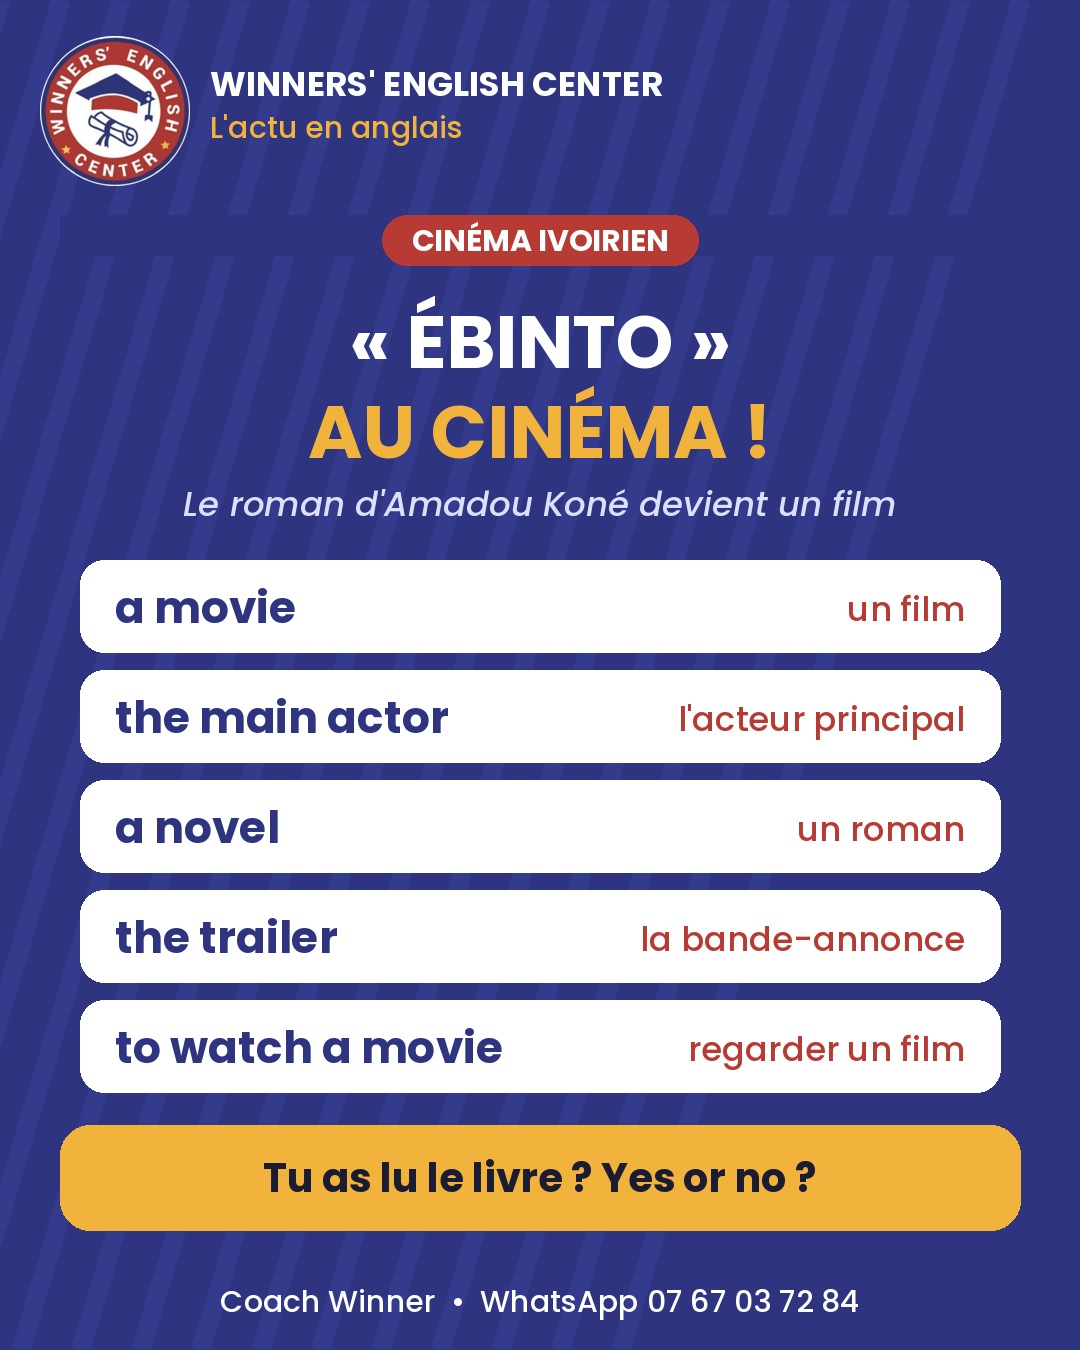
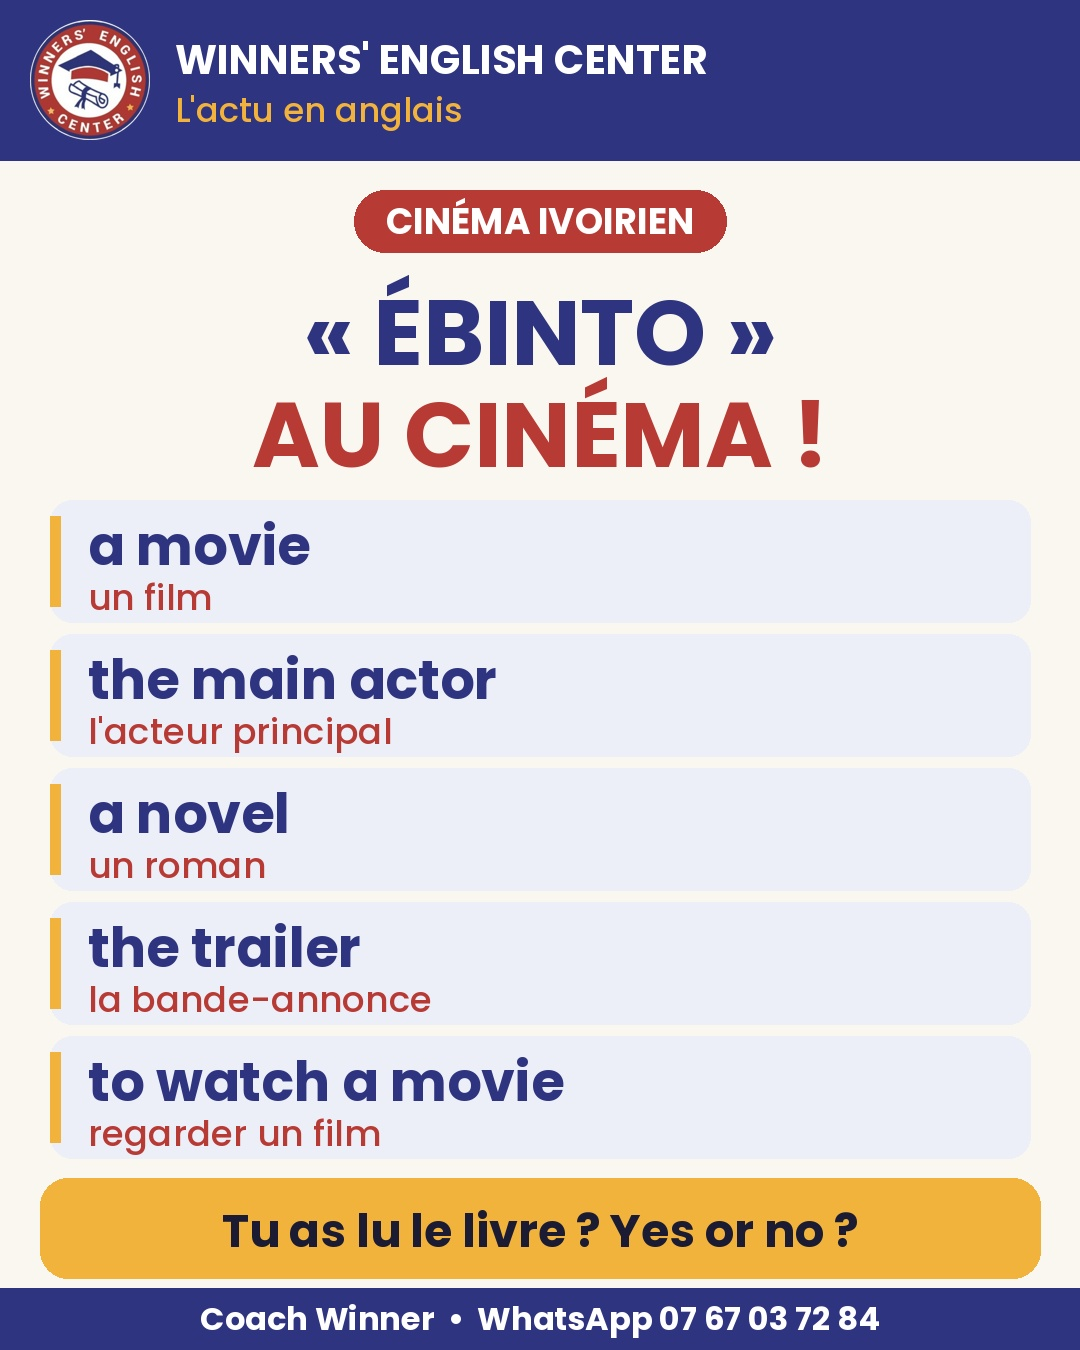
Visuels actu v2 plus lisibles
Claude-Session: https://claude.ai/code/session_01RFv1fahLU5XSvBC829hEWp

diff --git a/actu/actu2.py b/actu/actu2.py
@@ -1,0 +1,53 @@
+from PIL import Image, ImageDraw, ImageFont
+W,H=1080,1350
+NAVY=(47,52,128); RED=(184,58,53); GOLD=(242,179,61); WHITE=(255,255,255); INK=(27,28,51); BG=(250,247,240); CARD=(236,238,248)
+P='/usr/share/fonts/truetype/google-fonts/Poppins-'
+F=lambda w,s: ImageFont.truetype(P+w+'.ttf',s)
+logo=Image.open('/home/claude/Winners_videos/outils/logo_rond.png').convert('RGBA').resize((120,120))
+def fit(d,t,w,s,maxw):
+    while d.textlength(t,font=F(w,s))>maxw: s-=2
+    return F(w,s)
+def c(d,y,t,f,col):
+    w=d.textlength(t,font=f); d.text(((W-w)/2,y),t,font=f,fill=col)
+def make(name,tag,title1,title2,rows,question):
+    im=Image.new('RGB',(W,H),BG); d=ImageDraw.Draw(im)
+    d.rectangle((0,0,W,160),fill=NAVY)
+    im.paste(logo,(30,20),logo)
+    d.text((175,32),"WINNERS' ENGLISH CENTER",font=F('Bold',40),fill=WHITE)
+    d.text((175,86),"L'actu en anglais",font=F('Medium',34),fill=GOLD)
+    f=F('Bold',36); tw=d.textlength(tag,font=f)
+    d.rounded_rectangle((W/2-tw/2-32,190,W/2+tw/2+32,252),radius=31,fill=RED); c(d,196,tag,f,WHITE)
+    c(d,268,title1,fit(d,title1,'Bold',92,980),NAVY); c(d,370,title2,fit(d,title2,'Bold',92,980),RED)
+    y=500
+    for en,fr in rows:
+        d.rounded_rectangle((50,y,1030,y+122),radius=22,fill=CARD)
+        d.rectangle((50,y+16,60,y+106),fill=GOLD)
+        d.text((88,y+8),en,font=fit(d,en,'Bold',54,910),fill=NAVY)
+        d.text((88,y+72),fr,font=fit(d,fr,'Medium',36,910),fill=RED)
+        y+=134
+    d.rounded_rectangle((40,y+8,1040,y+108),radius=28,fill=GOLD)
+    c(d,y+28,question,fit(d,question,'Bold',46,940),INK)
+    d.rectangle((0,H-62,W,H),fill=NAVY)
+    c(d,H-54,"Coach Winner  •  WhatsApp 07 67 03 72 84",F('Bold',32),WHITE)
+    im.save(name,quality=95)
+make('yan.jpg','⚽ FOOTBALL'.replace('⚽ ',''),"YAN DIOMANDÉ","BRILLE AU REAL !",
+ [("to score a goal","marquer un but"),("an assist","une passe décisive"),("the striker","l'attaquant"),("man of the match","l'homme du match"),("a winger","un ailier")],
+ "Comment dit-on « but » en anglais ?")
+make('u17.jpg','CAN U17 2027',"LES ÉLÉPHANTEAUX","QUALIFIÉS !",
+ [("to qualify","se qualifier"),("the final","la finale"),("to beat Ghana","battre le Ghana"),("the team","l'équipe"),("Well done, boys!","Bravo les gars !")],
+ "Écris « Well done! » en commentaire")
+make('miss.jpg','MISS GRAND INTERNATIONAL',"PRÉSENTE-TOI","COMME UNE MISS",
+ [("My name is…","Je m'appelle…"),("I'm from Côte d'Ivoire","Je viens de Côte d'Ivoire"),("I'm proud to…","Je suis fière de…"),("the runner-up","la dauphine"),("Thank you!","Merci !")],
+ "Présente-toi en anglais !")
+make('layo.jpg','MUSIQUE',"ROSELINE LAYO","NOUVEL ALBUM !",
+ [("an album","un album"),("the release","la sortie"),("a hit","un tube"),("featuring (feat.)","en collaboration avec"),("a fan","un(e) fan")],
+ "Ta chanson préférée de Roseline Layo ?")
+make('ebinto.jpg','CINÉMA IVOIRIEN',"« ÉBINTO »","AU CINÉMA !",
+ [("a movie","un film"),("the main actor","l'acteur principal"),("a novel","un roman"),("the trailer","la bande-annonce"),("to watch a movie","regarder un film")],
+ "Tu as lu le livre ? Yes or no ?")
+make('type.jpg','ÇA FAIT POLÉMIQUE',"« HE'S NOT","MY TYPE ! »",
+ [("He's not my type","Il n'est pas mon genre"),("my husband / my wife","mon mari / ma femme"),("love at first sight","le coup de foudre"),("to fall in love","tomber amoureux"),("It's complicated","C'est compliqué")],
+ "Et toi ? « My type is… »")
+make('respect.jpg','LE LIVE QUI FAIT PARLER',"PARLER AVEC","RESPECT !",
+ [("With all due respect…","Sauf votre respect…"),("I disagree","Je ne suis pas d'accord"),("I apologize","Je m'excuse"),("Let's calm down","Calmons-nous"),("Respect your elders","Respecte tes aînés")],
+ "Réponds : « I disagree, but… »")
